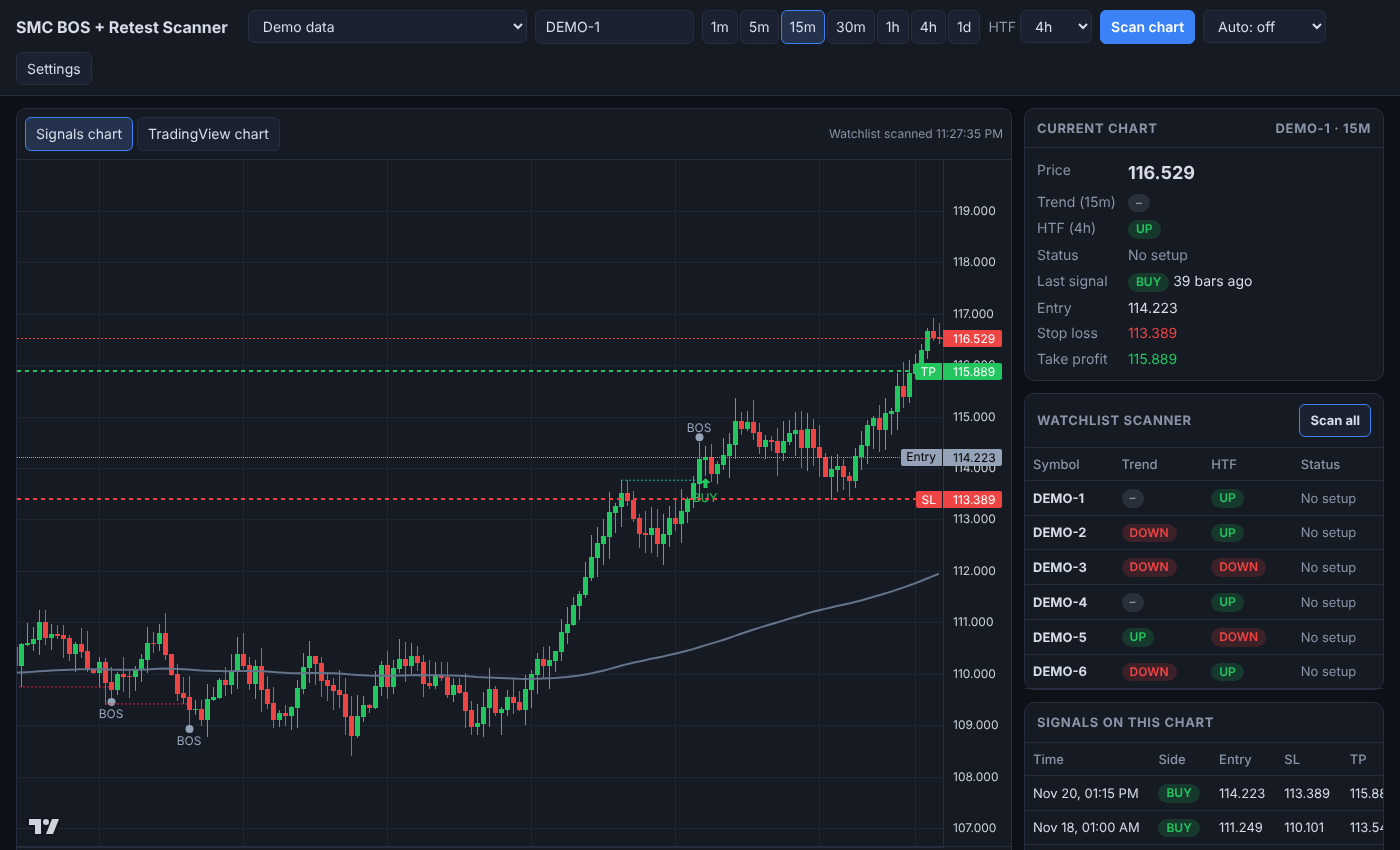
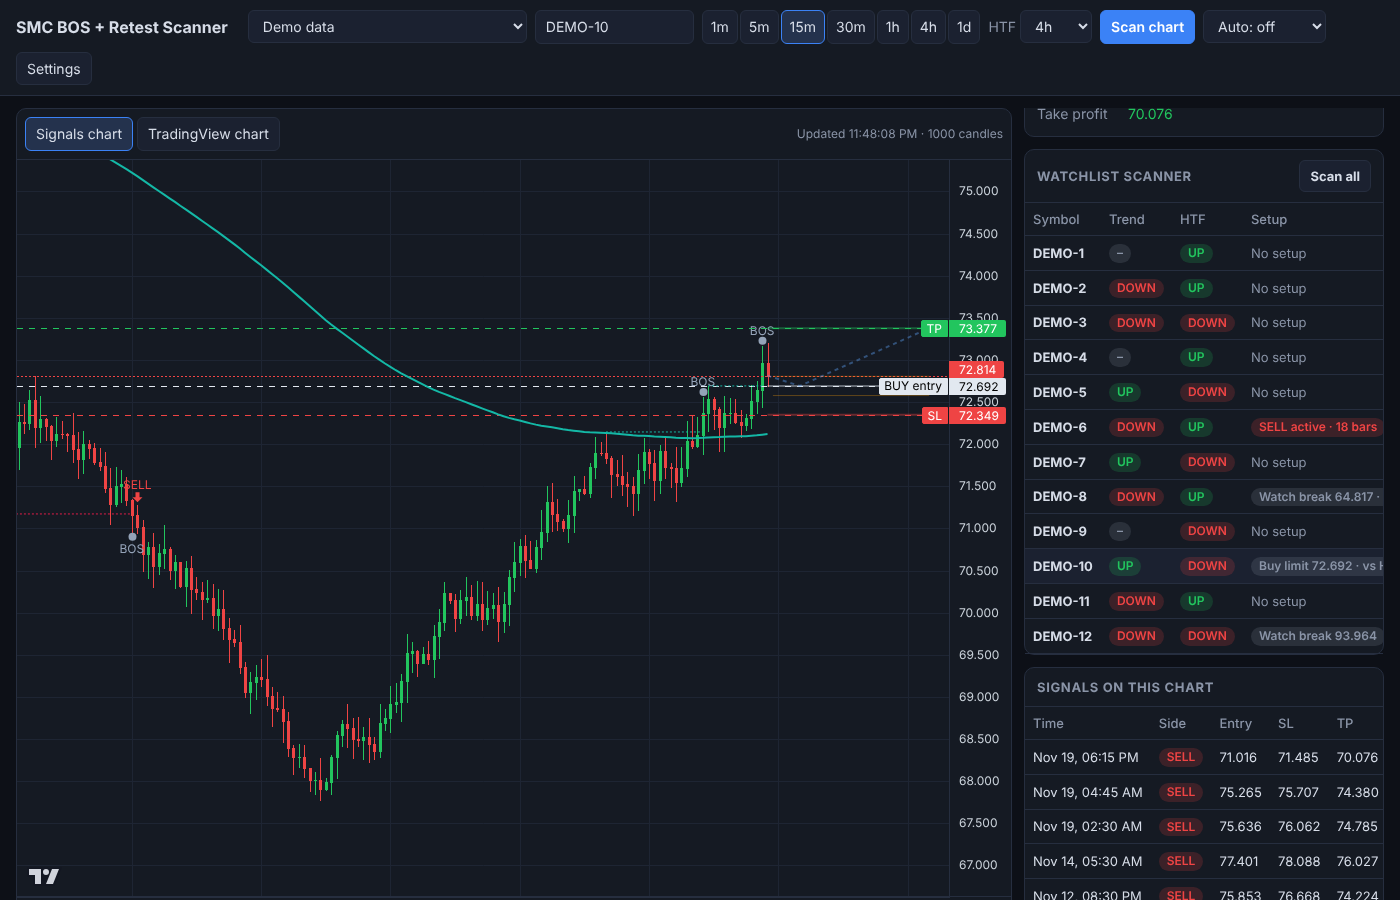
Add trade forecast: projected entry/SL/TP, setup conditions and track record
Claude-Session: https://claude.ai/code/session_01WaSdDmkXH6kmzoCwZk9Tq7

diff --git a/webapp/index.html b/webapp/index.html
@@ -19,7 +19,8 @@ button.primary{background:var(--accent);border-color:var(--accent);color:#fff;fo
 button.on{background:#24324d;border-color:var(--accent)}
 header{display:flex;flex-wrap:wrap;gap:8px;align-items:center;padding:10px 16px;border-bottom:1px solid var(--line);background:var(--panel)}
 header h1{font-size:16px;margin:0 12px 0 0;white-space:nowrap}
-.tfs{display:flex;gap:2px}
+.tfs{display:flex;flex-wrap:wrap;gap:2px}
+main>*{min-width:0}
 .tfs button{padding:6px 8px}
 .grow{flex:1}
 main{display:grid;grid-template-columns:1fr 360px;gap:12px;padding:12px 16px;height:calc(100% - 58px)}
@@ -96,20 +97,25 @@ dialog::backdrop{background:rgba(0,0,0,.6)}
 
   <aside>
     <div class="card">
+      <h2>Forecast <span class="r" id="fcSym"></span></h2>
+      <div class="kv" id="fc"><div>Setup</div><div class="muted">Press “Scan chart”</div></div>
+      <p class="muted" style="margin:0;padding:0 12px 12px;font-size:12px">Projected from the strategy rules and past results on this chart. A plan, not a guarantee.</p>
+    </div>
+    <div class="card">
       <h2>Current chart <span class="r" id="curSym"></span></h2>
       <div class="kv" id="cur"><div>Status</div><div class="muted">Press “Scan chart”</div></div>
     </div>
     <div class="card">
       <h2>Watchlist scanner <span class="r"><button id="scanAllBtn">Scan all</button></span></h2>
       <div style="overflow:auto"><table>
-        <thead><tr><th>Symbol</th><th>Trend</th><th>HTF</th><th>Status</th></tr></thead>
+        <thead><tr><th>Symbol</th><th>Trend</th><th>HTF</th><th>Setup</th><th>Win %</th></tr></thead>
         <tbody id="wl"></tbody>
       </table></div>
     </div>
     <div class="card">
       <h2>Signals on this chart</h2>
       <div class="hist"><table>
-        <thead><tr><th>Time</th><th>Side</th><th>Entry</th><th>SL</th><th>TP</th></tr></thead>
+        <thead><tr><th>Time</th><th>Side</th><th>Entry</th><th>SL</th><th>TP</th><th>Result</th></tr></thead>
         <tbody id="hist"></tbody>
       </table></div>
     </div>
@@ -314,10 +320,45 @@ function analyze(cs, p, htfBias){
   const ok = s => !p.useHtf || s.htf === s.dir;
   const good = signals.filter(ok);
   const last = good[good.length-1] || null;
+
+  // Outcome of every past signal: which was hit first, SL or TP (same candle counts as SL)
+  for (const s of good){
+    s.outcome = 'open';
+    for (let k = s.i+1; k < n; k++){
+      const c = cs[k];
+      const hitSL = s.dir===1 ? c.l <= s.sl : c.h >= s.sl;
+      const hitTP = s.dir===1 ? c.h >= s.tp : c.l <= s.tp;
+      if (hitSL){ s.outcome = 'loss'; s.exitI = k; break; }
+      if (hitTP){ s.outcome = 'win'; s.exitI = k; break; }
+    }
+  }
+  const closedT = good.filter(s => s.outcome !== 'open');
+  const wins = closedT.filter(s => s.outcome === 'win').length;
+  const stats = {trades:closedT.length, wins,
+    winRate: closedT.length ? wins/closedT.length : null,
+    avgR: closedT.length ? (wins*p.rr - (closedT.length-wins))/closedT.length : null};
+
+  // Forecast: the trade the strategy is set up to take next
+  const a = atr[n-1], tolN = a*p.tol, buf = a*p.slAtr, htfNow = htfBias[n-1] || 0, close = cs[n-1].c;
+  const mk = (dir, type, entry, extra) => {
+    const sl = dir===1 ? entry - tolN - buf : entry + tolN + buf;
+    return {dir, type, entry, sl, tp: entry + dir*p.rr*Math.abs(entry - sl), tol: tolN,
+      htfOk: !p.useHtf || htfNow === dir, ...extra};
+  };
+  let plan = null;
+  if (last && last.outcome === 'open' && n-1-last.i <= 50)
+    plan = {dir:last.dir, type:'active', entry:last.entry, sl:last.sl, tp:last.tp, htfOk:true, ago:n-1-last.i};
+  else if (state !== 0)
+    plan = mk(state, 'limit', lvl, {invalid: lvl - state*tolN, barsLeft: Math.max(0, p.maxRetest - (n-1-bosIdx)), bosT: cs[bosIdx].t});
+  else if (trendDir === 1 && !hBroken && lastH !== null && lastH > close)
+    plan = mk(1, 'watch', lastH, {trigger:lastH});
+  else if (trendDir === -1 && !lBroken && lastL !== null && lastL < close)
+    plan = mk(-1, 'watch', lastL, {trigger:lastL});
+
   return {
     ema, bos, signals:good, trendDir, state, level:state ? lvl : null,
-    pendingBars: state ? n-1-bosIdx : null, htf: htfBias[n-1] || 0,
-    last, lastAgo: last ? n-1-last.i : null, price: cs[n-1]?.c,
+    pendingBars: state ? n-1-bosIdx : null, htf: htfNow,
+    last, lastAgo: last ? n-1-last.i : null, price: close, plan, stats,
   };
 }
 
@@ -340,10 +381,38 @@ const fmt = v => v==null || isNaN(v) ? '–' : (+v).toFixed(decimals(Math.abs(v)
 const dirPill = d => d===1 ? '<span class="pill up">UP</span>' : d===-1 ? '<span class="pill down">DOWN</span>' : '<span class="pill neu">–</span>';
 const fmtTime = t => new Date(t).toLocaleString([], {month:'short', day:'numeric', hour:'2-digit', minute:'2-digit'});
 function statusHtml(r){
-  if (r.state === 1) return `<span class="pill warn">Bull BOS · wait retest ${fmt(r.level)}</span>`;
-  if (r.state === -1) return `<span class="pill warn">Bear BOS · wait retest ${fmt(r.level)}</span>`;
-  if (r.last && r.lastAgo <= S.p.fresh) return `<span class="pill ${r.last.dir===1?'up':'down'}">${r.last.dir===1?'BUY':'SELL'} · ${r.lastAgo} bars ago</span>`;
-  return '<span class="muted">No setup</span>';
+  const p = r.plan;
+  if (!p) return '<span class="muted">No setup</span>';
+  const side = p.dir===1 ? 'Buy' : 'Sell';
+  const cls = !p.htfOk ? 'neu' : p.type==='active' ? (p.dir===1?'up':'down') : p.type==='limit' ? 'warn' : 'neu';
+  const txt = p.type==='active' ? `${side.toUpperCase()} active · ${p.ago} bars`
+    : p.type==='limit' ? `${side} limit ${fmt(p.entry)}` : `Watch break ${fmt(p.trigger)}`;
+  return `<span class="pill ${cls}">${txt}${p.htfOk ? '' : ' · vs HTF'}</span>`;
+}
+const pct = x => x==null ? '–' : Math.round(x*100) + '%';
+function forecastHtml(r){
+  const p = r.plan, st = r.stats, tf = S.tf;
+  const record = st.trades >= 3
+    ? `${st.wins} of ${st.trades} past setups hit TP (${pct(st.winRate)}) · average ${st.avgR >= 0 ? '+' : ''}${st.avgR.toFixed(2)}R per trade`
+    : `Only ${st.trades} finished setup${st.trades===1?'':'s'} in loaded history, too few to judge`;
+  if (!p) return `<div>Setup</div><div class="muted">Nothing forming. Trend is not clear enough on ${tf}.</div>
+    <div>Track record</div><div>${record}</div>`;
+  const side = p.dir===1 ? 'BUY' : 'SELL', up = p.dir===1;
+  const label = p.type==='active' ? 'Trade running' : p.type==='limit' ? 'Limit order · waiting for retest' : 'Possible · waiting for break';
+  let cond;
+  if (p.type==='active') cond = `Signal fired ${p.ago} candles ago. Neither SL nor TP has been hit yet.`;
+  else if (p.type==='limit') cond = `Structure broke at ${fmt(p.entry)}. Enter when price pulls back into ${fmt(p.entry - p.tol)} – ${fmt(p.entry + p.tol)} and a ${up?'bullish':'bearish'} candle closes back ${up?'above':'below'} it. Cancel on a close ${up?'below':'above'} ${fmt(p.invalid)} or after ${p.barsLeft} more candles.`;
+  else cond = `Trend is ${up?'up':'down'}. If a ${tf} candle closes ${up?'above':'below'} ${fmt(p.trigger)}, wait for a pull-back to that level and enter there.`;
+  if (!p.htfOk) cond += ` <b>HTF (${S.htf}) points the other way, so the scanner will not signal this one.</b>`;
+  const risk = Math.abs(p.entry - p.sl), reward = Math.abs(p.tp - p.entry), dist = v => v.toFixed(decimals(p.entry));
+  return `
+    <div>Setup</div><div><span class="pill ${!p.htfOk ? 'neu' : up ? 'up' : 'down'}">${side}</span> ${label}</div>
+    <div>Entry${p.type==='active' ? '' : ' (approx.)'}</div><div class="big">${fmt(p.entry)}</div>
+    <div>Stop loss</div><div style="color:var(--down)">${fmt(p.sl)} <span class="muted">(${dist(risk)} away)</span></div>
+    <div>Take profit</div><div style="color:var(--up)">${fmt(p.tp)} <span class="muted">(${dist(reward)} away)</span></div>
+    <div>Risk : reward</div><div>1 : ${(reward/risk).toFixed(1)}</div>
+    <div>Condition</div><div>${cond}</div>
+    <div>Track record</div><div>${record}</div>`;
 }
 const esc = s => String(s).replace(/[&<>"']/g, ch => ({'&':'&amp;','<':'&lt;','>':'&gt;','"':'&quot;',"'":'&#39;'}[ch]));
 
@@ -357,13 +426,15 @@ const chart = LightweightCharts.createChart($('chart'), {
   crosshair:{mode:0},
 });
 const candles = chart.addCandlestickSeries({upColor:'#22c55e', downColor:'#ef4444', wickUpColor:'#22c55e', wickDownColor:'#ef4444', borderVisible:false});
-const emaLine = chart.addLineSeries({color:'#64748b', lineWidth:2, priceLineVisible:false, lastValueVisible:false, crosshairMarkerVisible:false});
+const emaLine = chart.addLineSeries({color:'#64748b', lineWidth:2, priceLineVisible:false, lastValueVisible:false, crosshairMarkerVisible:false, autoscaleInfoProvider:() => null});
 let extraSeries = [], priceLines = [];
 
 function draw(cs, r){
-  const d = decimals(cs[cs.length-1]?.c || 1);
+  const d = decimals(cs[cs.length-1]?.c || 1), ms = tfOf(S.tf).ms, lastT = cs[cs.length-1].t;
   candles.applyOptions({priceFormat:{type:'price', precision:d, minMove:Math.pow(10,-d)}});
-  candles.setData(cs.map(c => ({time:c.t/1000, open:c.o, high:c.h, low:c.l, close:c.c})));
+  // 30 empty future candles give room to draw the forecast to the right of price
+  const future = Array.from({length:30}, (_, k) => ({time:(lastT + (k+1)*ms)/1000}));
+  candles.setData(cs.map(c => ({time:c.t/1000, open:c.o, high:c.h, low:c.l, close:c.c})).concat(future));
   emaLine.applyOptions({color: r.trendDir===1 ? '#14b8a6' : r.trendDir===-1 ? '#be123c' : '#64748b'});
   emaLine.setData(cs.map((c,i) => ({time:c.t/1000, value:r.ema[i]})).slice(Math.min(S.p.ema, cs.length-1)));
   extraSeries.forEach(s => chart.removeSeries(s)); extraSeries = [];
@@ -380,11 +451,32 @@ function draw(cs, r){
   markers.sort((a,b) => a.time-b.time);
   candles.setMarkers(markers);
 
-  if (r.state) priceLines.push(candles.createPriceLine({price:r.level, color:'#f59e0b', lineWidth:1, lineStyle:2, title:'Retest zone'}));
-  if (r.last && r.lastAgo <= 50){
-    priceLines.push(candles.createPriceLine({price:r.last.entry, color:'#94a3b8', lineWidth:1, lineStyle:1, title:'Entry'}));
-    priceLines.push(candles.createPriceLine({price:r.last.sl, color:'#ef4444', lineWidth:2, title:'SL'}));
-    priceLines.push(candles.createPriceLine({price:r.last.tp, color:'#22c55e', lineWidth:2, title:'TP'}));
+  const p = r.plan;
+  if (p){
+    const T = k => (lastT + k*ms)/1000, last = cs[cs.length-1].c;
+    const start = p.type==='active' ? cs[cs.length-1-p.ago].t/1000 : T(0);
+    const seg = (pts, color, width, style) => {
+      const s = chart.addLineSeries({color, lineWidth:width, lineStyle:style, priceLineVisible:false, lastValueVisible:false, crosshairMarkerVisible:false});
+      s.setData(pts); extraSeries.push(s);
+    };
+    const alpha = p.htfOk ? '' : '66';
+    if (p.type !== 'active'){
+      seg([{time:T(1), value:p.entry + p.tol}, {time:T(30), value:p.entry + p.tol}], '#f59e0b55' , 1, 0);
+      seg([{time:T(1), value:p.entry - p.tol}, {time:T(30), value:p.entry - p.tol}], '#f59e0b55' , 1, 0);
+    }
+    seg([{time:start, value:p.entry}, {time:T(30), value:p.entry}], '#e2e8f0' + alpha, 2, 0);
+    seg([{time:start, value:p.sl}, {time:T(30), value:p.sl}], '#ef4444' + alpha, 2, 0);
+    seg([{time:start, value:p.tp}, {time:T(30), value:p.tp}], '#22c55e' + alpha, 2, 0);
+    // projected path: now -> entry -> target
+    const path = p.type==='active' ? [{time:T(0), value:last}, {time:T(30), value:p.tp}]
+      : p.type==='limit' ? [{time:T(0), value:last}, {time:T(6), value:p.entry}, {time:T(30), value:p.tp}]
+      : [{time:T(0), value:last}, {time:T(6), value:p.trigger + (p.dir*p.tol*2)}, {time:T(12), value:p.entry}, {time:T(30), value:p.tp}];
+    seg(path, '#60a5fa' + alpha, 2, 2);
+    chart.timeScale().setVisibleLogicalRange({from: cs.length - 140, to: cs.length + 32});
+    const tag = p.dir===1 ? 'BUY' : 'SELL';
+    priceLines.push(candles.createPriceLine({price:p.entry, color:'#e2e8f0', lineWidth:1, lineStyle:3, title:`${tag} entry`}));
+    priceLines.push(candles.createPriceLine({price:p.sl, color:'#ef4444', lineWidth:1, lineStyle:3, title:'SL'}));
+    priceLines.push(candles.createPriceLine({price:p.tp, color:'#22c55e', lineWidth:1, lineStyle:3, title:'TP'}));
   }
 }
 
@@ -441,12 +533,13 @@ function renderHeader(){
 
 async function scanCurrent(){
   const sym = curSymbol().trim(); if (!sym) return;
-  $('curSym').textContent = `${sym} · ${S.tf}`;
+  $('curSym').textContent = $('fcSym').textContent = `${sym} · ${S.tf}`;
   setStatus(`Scanning ${sym}…`);
   try {
     const {cs, r} = await scanSymbol(S.source, sym, S.tf, S.htf);
     if (cs.length < 50) throw new Error('Not enough candles returned.');
     draw(cs, r);
+    $('fc').innerHTML = forecastHtml(r);
     $('cur').innerHTML = `
       <div>Price</div><div class="big">${fmt(r.price)}</div>
       <div>Trend (${S.tf})</div><div>${dirPill(r.trendDir)}</div>
@@ -458,7 +551,8 @@ async function scanCurrent(){
       <div>Take profit</div><div style="color:var(--up)">${fmt(r.last.tp)}</div>` : '<div>Last signal</div><div class="muted">None in loaded history</div>'}`;
     $('hist').innerHTML = r.signals.slice().reverse().map(s => `<tr><td>${fmtTime(s.t)}</td>
       <td><span class="pill ${s.dir===1?'up':'down'}">${s.dir===1?'BUY':'SELL'}</span></td>
-      <td>${fmt(s.entry)}</td><td>${fmt(s.sl)}</td><td>${fmt(s.tp)}</td></tr>`).join('') || '<tr><td colspan="5" class="muted">No signals in loaded history</td></tr>';
+      <td>${fmt(s.entry)}</td><td>${fmt(s.sl)}</td><td>${fmt(s.tp)}</td>
+      <td>${s.outcome==='win' ? '<span class="pill up">TP hit</span>' : s.outcome==='loss' ? '<span class="pill down">SL hit</span>' : '<span class="pill warn">Open</span>'}</td></tr>`).join('') || '<tr><td colspan="6" class="muted">No signals in loaded history</td></tr>';
     checkNew(S.source, sym, S.tf, r);
     setStatus(`Updated ${new Date().toLocaleTimeString()} · ${cs.length} candles`);
   } catch(e){ setStatus('Error'); $('cur').innerHTML = `<div>Error</div><div style="color:var(--down)">${esc(e.message)}</div>`; }
@@ -469,10 +563,11 @@ function renderWatchlist(){
   const list = S.wl[S.source] || [];
   $('wl').innerHTML = list.map(sym => {
     const x = wlResults[[S.source, sym, S.tf, S.htf].join('|')];
-    const row = !x ? '<td colspan="3" class="muted">–</td>' : x.err ? `<td colspan="3" style="color:var(--down)" title="${esc(x.err)}">error</td>`
-      : `<td>${dirPill(x.r.trendDir)}</td><td>${S.p.useHtf ? dirPill(x.r.htf) : '–'}</td><td>${statusHtml(x.r)}</td>`;
+    const row = !x ? '<td colspan="4" class="muted">–</td>' : x.err ? `<td colspan="4" style="color:var(--down)" title="${esc(x.err)}">error</td>`
+      : `<td>${dirPill(x.r.trendDir)}</td><td>${S.p.useHtf ? dirPill(x.r.htf) : '–'}</td><td>${statusHtml(x.r)}</td>
+         <td title="${x.r.stats.trades} finished setups">${x.r.stats.trades >= 3 ? pct(x.r.stats.winRate) : '–'}</td>`;
     return `<tr data-sym="${esc(sym)}"><td><b>${esc(sym)}</b></td>${row}</tr>`;
-  }).join('') || '<tr><td colspan="4" class="muted">Add symbols in Settings</td></tr>';
+  }).join('') || '<tr><td colspan="5" class="muted">Add symbols in Settings</td></tr>';
 }
 let scanningAll = false;
 async function scanAll(){
@@ -501,6 +596,13 @@ function checkNew(source, sym, tf, r){
     try { if (Notification.permission === 'granted') new Notification('SMC signal', {body:msg}); } catch(e){}
   }
   seen[key] = Math.max(seen[key]||0, t);
+  const p = r.plan, sk = key + '|setup', bt = p && p.type==='limit' && p.htfOk ? p.bosT : 0;
+  if (sk in seen && bt > seen[sk]){
+    const msg = `${sym} ${tf}: ${p.dir===1?'BUY':'SELL'} setup forming. Limit ~${fmt(p.entry)} · SL ${fmt(p.sl)} · TP ${fmt(p.tp)}`;
+    toast(msg); beep();
+    try { if (Notification.permission === 'granted') new Notification('SMC setup forming', {body:msg}); } catch(e){}
+  }
+  seen[sk] = Math.max(seen[sk]||0, bt);
 }
 function beep(){
   try { const a = new AudioContext(), o = a.createOscillator(), g = a.createGain();
